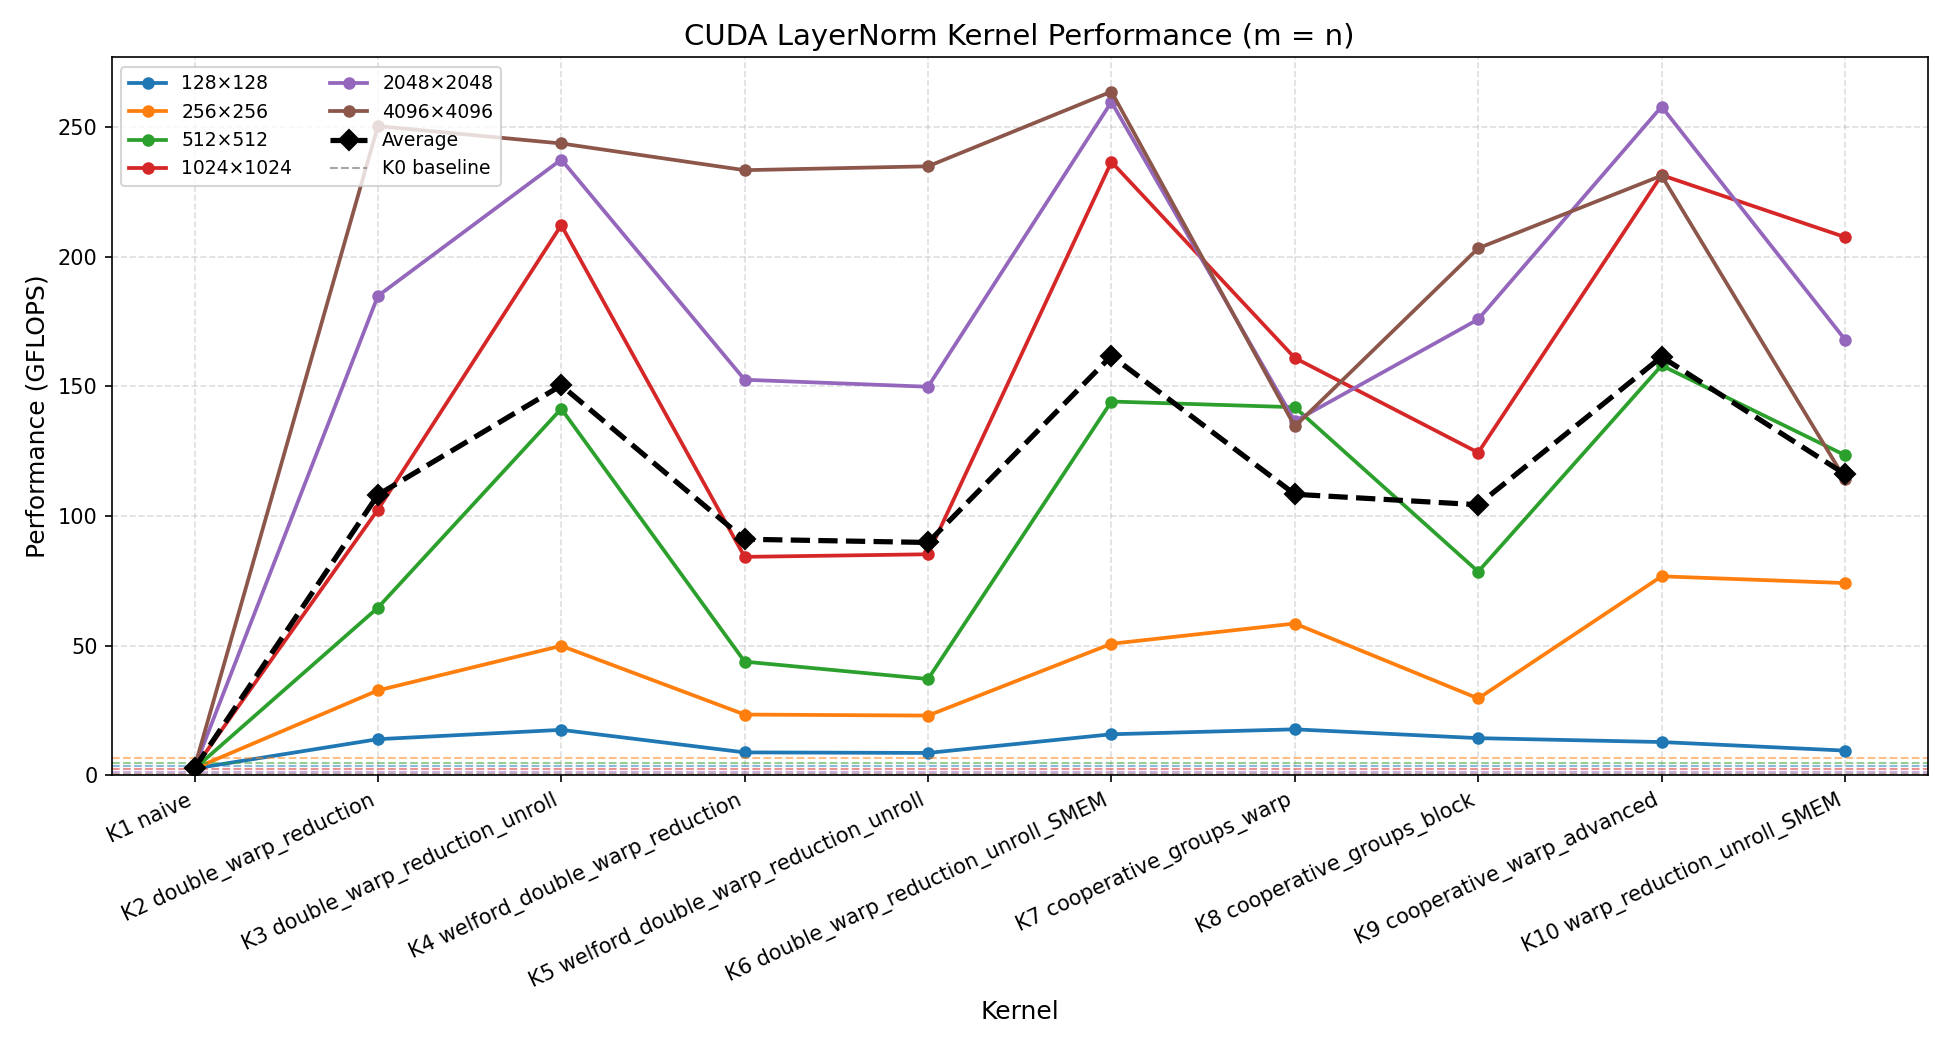
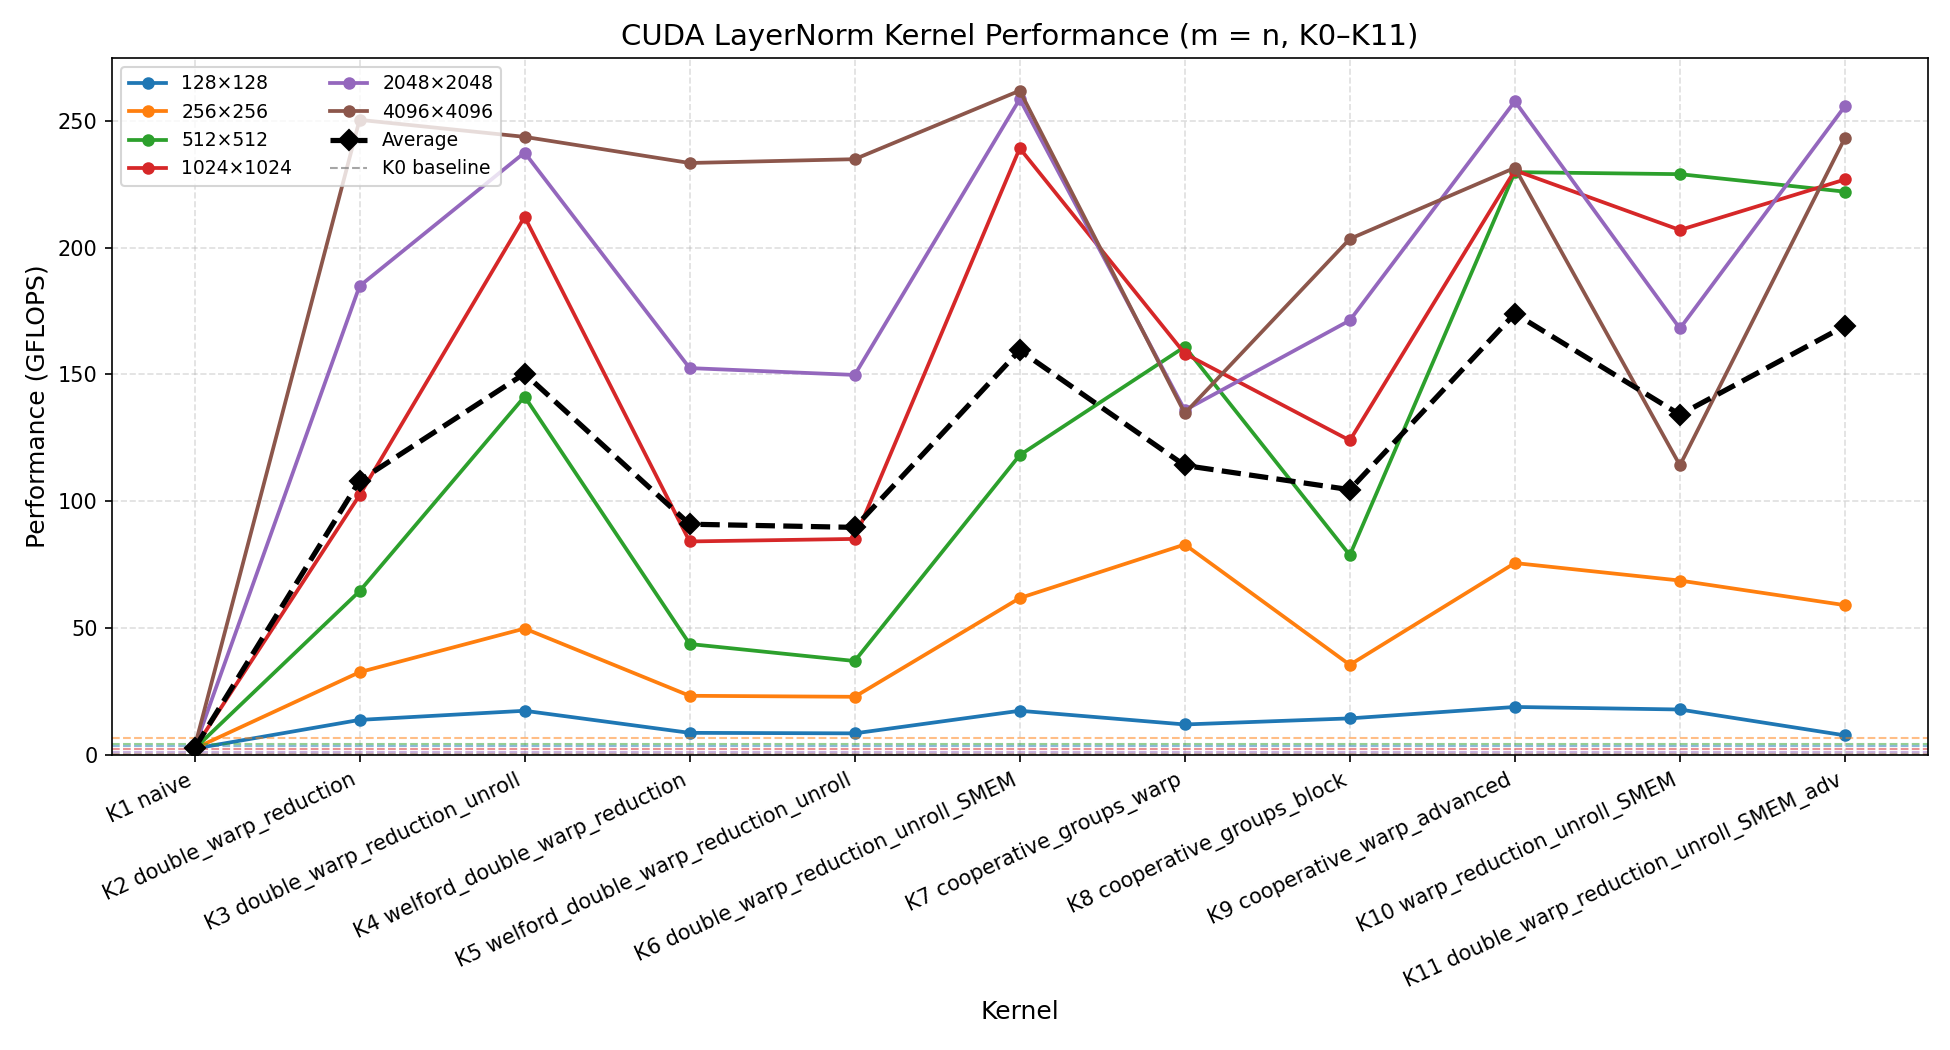
add kernel11 plot performance

diff --git a/plot_performance.py b/plot_performance.py
@@ -29,7 +29,7 @@ LOGS_DIR = Path(__file__).parent / "logs"
 # 典型方阵维度（m == n）
 DEFAULT_DIMS = [128, 256, 512, 1024, 2048, 4096]
 
-KERNEL_IDS = list(range(0, 11))   # kernel 0–10
+KERNEL_IDS = list(range(0, 12))   # kernel 0–11
 
 KERNEL_LABELS = {
     0:  "K0 base",
@@ -43,6 +43,7 @@ KERNEL_LABELS = {
     8:  "K8 cooperative_groups_block",
     9:  "K9 cooperative_warp_advanced",
     10: "K10 warp_reduction_unroll_SMEM",
+    11: "K11 double_warp_reduction_unroll_SMEM_adv",
 }
 
 
@@ -67,7 +68,7 @@ def parse_log(kernel_id: int) -> dict[tuple[int, int], float]:
 
 def main() -> None:
     parser = argparse.ArgumentParser(
-        description="绘制 LayerNorm kernel 0–10 在方阵维度上的 GFLOPS 折线图"
+        description="绘制 LayerNorm kernel 0–11 在方阵维度上的 GFLOPS 折线图"
     )
     parser.add_argument(
         "dims",
@@ -166,7 +167,7 @@ def main() -> None:
 
     ax.set_xlabel("Kernel", fontsize=12)
     ax.set_ylabel("Performance (GFLOPS)", fontsize=12)
-    ax.set_title("CUDA LayerNorm Kernel Performance (m = n)", fontsize=14)
+    ax.set_title("CUDA LayerNorm Kernel Performance (m = n, K0–K11)", fontsize=14)
     ax.set_xticks(plot_kernels)
     ax.set_xticklabels(
         [KERNEL_LABELS[k] for k in plot_kernels], rotation=25, ha="right"
